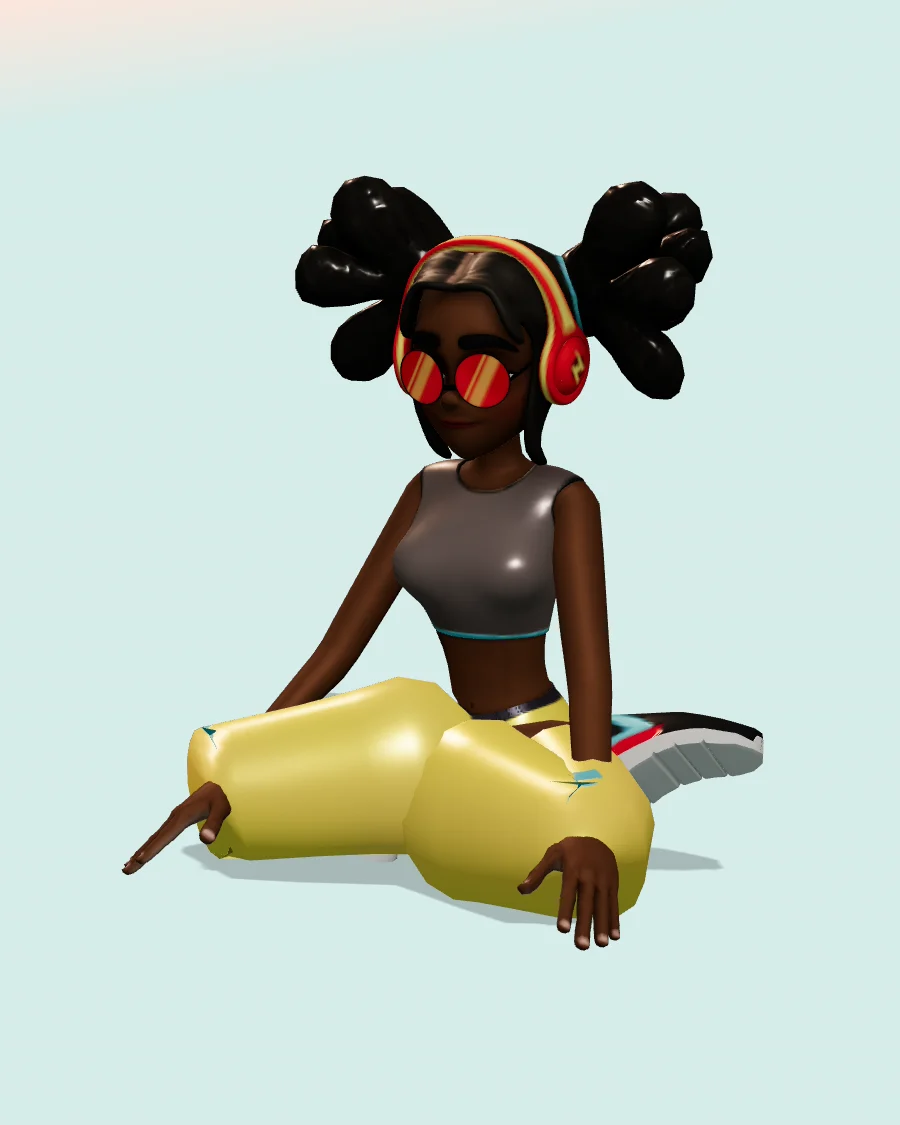
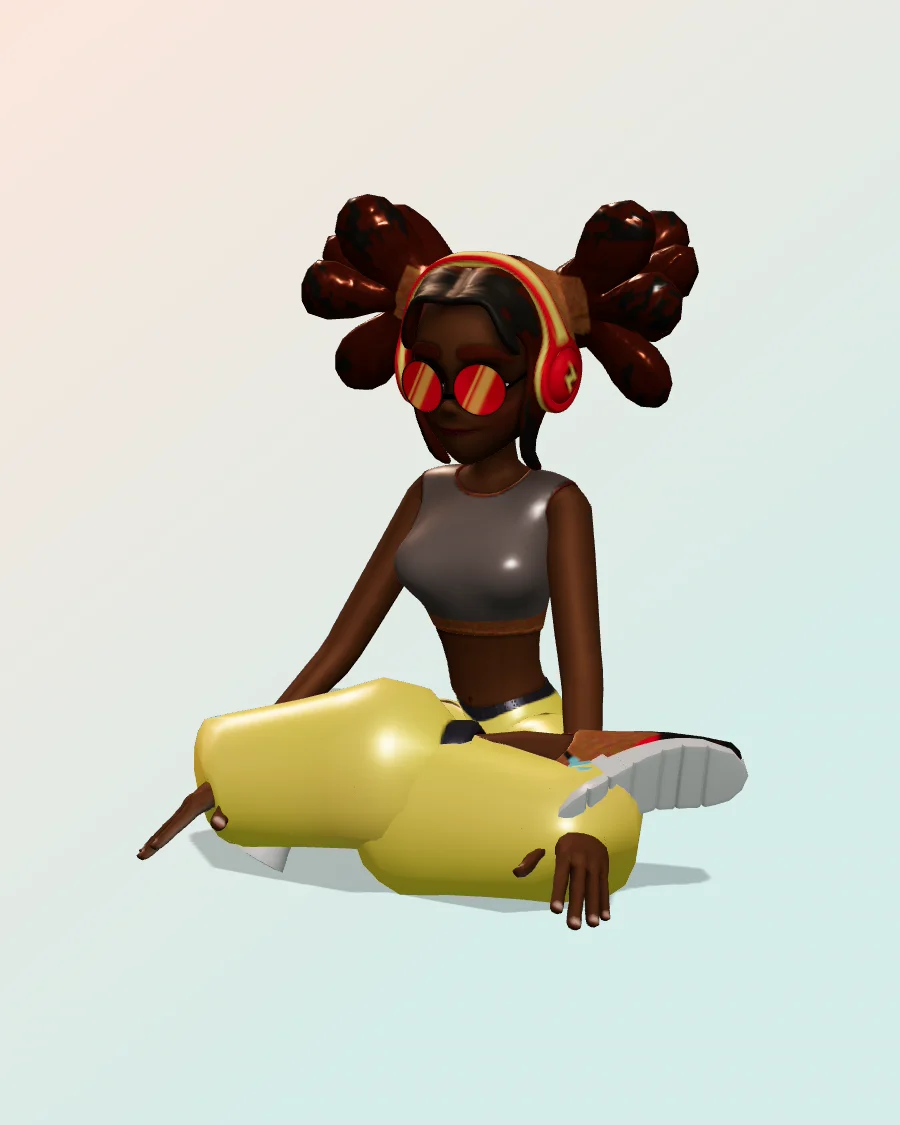
Bağdaş (kolay oturuş) pozunda bacaklar düzeltildi
Baldırlar aynı yükseklikte birbirinin içinden geçiyor ve ayaklar yanlara taşıyordu.
Baldırlar artık çapraz, biri diğerinin üstünden geçiyor ve ayaklar karşı dizin altında.
Tüm pozlar ön/yan/üst/üçte-dört görünümlerle ve geçiş kareleriyle kontrol edildi; yalnızca bu poz hatalıydı.
Poz kütüphanesi görseli yeniden üretildi.

Claude-Session: https://claude.ai/code/session_015FT5K41n6wYMXLEgQyKnBJ

diff --git a/src/lib/pose-rigs.ts b/src/lib/pose-rigs.ts
@@ -108,8 +108,8 @@ export const RIGS: Record<string, PoseRig> = {
     aim: {
       ...spineUp, Spine2: v(0, 1, 0.03),
       ...arms(v(0.3, -0.85, 0.45), v(0.35, -0.65, 0.7), v(0.3, -0.45, 0.85)),
-      LeftUpLeg: v(0.55, -0.05, 0.83), LeftLeg: v(-0.85, -0.02, -0.52), LeftFoot: v(-1, -0.05, 0), LeftToeBase: v(-1, 0, 0),
-      RightUpLeg: v(-0.55, -0.05, 0.83), RightLeg: v(0.85, 0.12, -0.52), RightFoot: v(1, 0.05, 0), RightToeBase: v(1, 0, 0),
+      LeftUpLeg: v(0.55, -0.04, 0.83), LeftLeg: v(-0.93, -0.03, -0.2), LeftFoot: v(-0.85, -0.2, -0.4), LeftToeBase: v(-0.9, -0.05, -0.4),
+      RightUpLeg: v(-0.55, -0.04, 0.83), RightLeg: v(0.92, 0.15, -0.12), RightFoot: v(0.85, -0.12, -0.4), RightToeBase: v(0.9, -0.05, -0.4),
     },
   },
   "savasana": {
